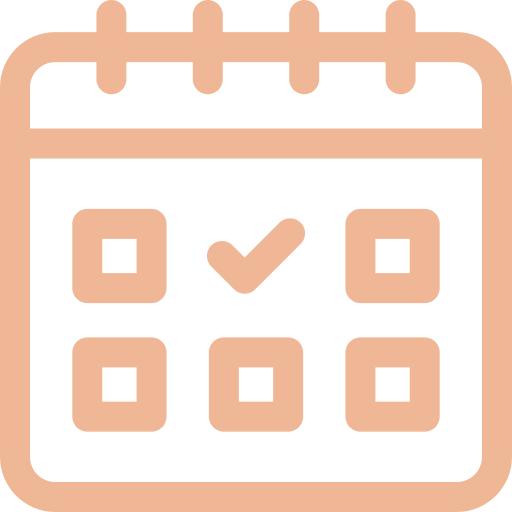
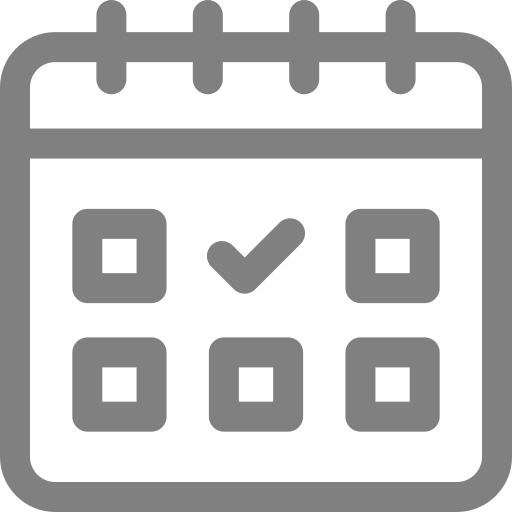
Create Section-3 in About

diff --git a/src/Components/About/Section-1.jsx b/src/Components/About/Section-1.jsx
@@ -8,7 +8,7 @@ export default function Section_1() {
             </div>
             <div className="w-full lg:h-[85vh] px-1 lg:px-8 xl:px-24 flex items-center flex-wrap gap-8 lg:gap-0 pt-28 lg:pt-5">
                 <div className="w-full lg:w-1/2 h-5/6 flex flex-col gap-2 lg:gap-8 items-center lg:items-start text-center lg:text-start">
-                    <h1 className="text-lg text-[#f0b797]">WELCOME TO FIND STAYS</h1>
+                    <h1 className="text-lg text-gray">WELCOME TO FIND STAYS</h1>
                     <h1 className="w-full lg:w-[75%] text-[2.50rem] lg:text-5xl">We Are The Best Host For Your Comfort</h1>
                     <div className="w-[95%] lg:w-[78%] flex flex-wrap gap-5">
                         <p>
@@ -24,9 +24,9 @@ export default function Section_1() {
                     </div>
                     <button className="px-8 py-2 bg-black text-white rounded-full">Book Now</button>
                 </div>
-                <div className="w-full lg:w-1/2 h-5/6 flex justify-between flex-wrap lg:flex-nowrap px-2 lg:px-0 gap-5 lg:gap-8">
-                    <div className="w-full sm:w-[48%] lg:w-[48%] h-[50vh] lg:h-[70%] lg:mt-24 cards-About-1 rounded-xl lg:hover:scale-90"></div>
-                    <div className="w-full sm:w-[48%] lg:w-[48%] h-[50vh] lg:h-[70%] cards-About-2 rounded-xl lg:hover:scale-90"></div>
+                <div className="w-full lg:w-1/2 h-5/6 flex justify-around flex-wrap lg:flex-nowrap px-2">
+                    <div className="w-full sm:w-[48%] lg:w-[46%] h-[50vh] lg:h-[80%] lg:mt-16 cards-About-1"></div>
+                    <div className="w-full sm:w-[48%] lg:w-[46%] h-[50vh] lg:h-[80%] cards-About-2"></div>
                 </div>
             </div>
 

diff --git a/src/Components/About/Section-2.jsx b/src/Components/About/Section-2.jsx
@@ -10,7 +10,7 @@ export default function Section_2() {
         <section className="w-full lg:h-[90vh] p-5 px-2 lg:p-9 mt-16 lg:mt-0 text-white bg-black">
             <div className="w-full h-full flex justify-center lg:justify-start flex-wrap gap-8 lg:gap-0">
                 <div className="w-full lg:w-1/2 h-1/2 flex flex-col justify-center items-center lg:items-start xl:pl-16 gap-1 lg:gap-5">
-                    <h1 className="text-lg text-[#f0b797]">AMENITIES</h1>
+                    <h1 className="text-lg text-gray">AMENITIES</h1>
                     <h1 className="w-full text-center lg:text-start text-[2.50rem] lg:text-5xl">Make your vacation unforgettable</h1>
                 </div>
                 <div className="w-full lg:w-1/2 h-1/2 flex justify-between lg:justify-center items-center gap-24">
@@ -47,7 +47,7 @@ export default function Section_2() {
                             <div className="w-1/4">
                                 <img src={icone_5} className="w-full h-full" />
                             </div>
-                            <h1 className="w-full text-center lg:text-start lg:w-[95%] text-2xl">Local Activity Guide</h1>
+                            <h1 className="w-full text-center lg:text-start lg:w-5/6 text-2xl">Local Activity Guide</h1>
                         </div>
                         <div className="w-1/2 lg:w-1/3 h-1/2 flex flex-col justify-center items-center lg:items-start gap-5">
                             <div className="w-1/4">

diff --git a/src/Style/style.css b/src/Style/style.css
@@ -223,13 +223,6 @@ i {
 }
 
 /*AboutPage*/
-.AboutPage-Background {
-    background-image: url(../Assets/Background-AboutPage.jpg);
-    background-repeat: no-repeat;
-    background-size: cover;
-    background-position: bottom;
-}
-
 .cards-About-1{
     background-image: url(../Assets/cards-About-1.jpg);
     background-size: cover;
@@ -240,4 +233,14 @@ i {
     background-image: url(../Assets/cards-About-2.jpg);
     background-size: cover;
     transition: 0.5s ease;
+}
+
+.text-gray{
+    color: #808080;
+}
+
+.background-image-section-3{
+    background-image: url(../Assets/section-3-about.jpg);
+    background-size: cover;
+    background-position: bottom;
 }

diff --git a/src/Components/About/Section-3.jsx b/src/Components/About/Section-3.jsx
@@ -1,0 +1,11 @@
+export default function Section_3() {
+    return <>
+        <section className="w-full h-[70vh] background-image-section-3">
+            <div className="w-full h-full flex flex-col items-center justify-center gap-5 lg:gap-9 text-white bg-black-blur">
+                <h1 className="text-gray text-lg">AMENITIES</h1>
+                <h1 className="w-full sm:w-5/6 lg:w-[45%] text-center text-5xl">The Best Summer Vacation Tours For Your Family</h1>
+                <button className="px-8 py-3 bg-black hover:bg-white hover:text-black">Book Now</button>
+            </div>
+        </section>
+    </>
+}

diff --git a/src/Pages/About/index.jsx b/src/Pages/About/index.jsx
@@ -1,9 +1,11 @@
 import Section_1 from "../../Components/About/Section-1";
 import Section_2 from "../../Components/About/Section-2";
+import Section_3 from "../../Components/About/Section-3";
 
 export default function About() {
     return <>
         <Section_1 />
         <Section_2 />
+        <Section_3/>
     </>
 }
